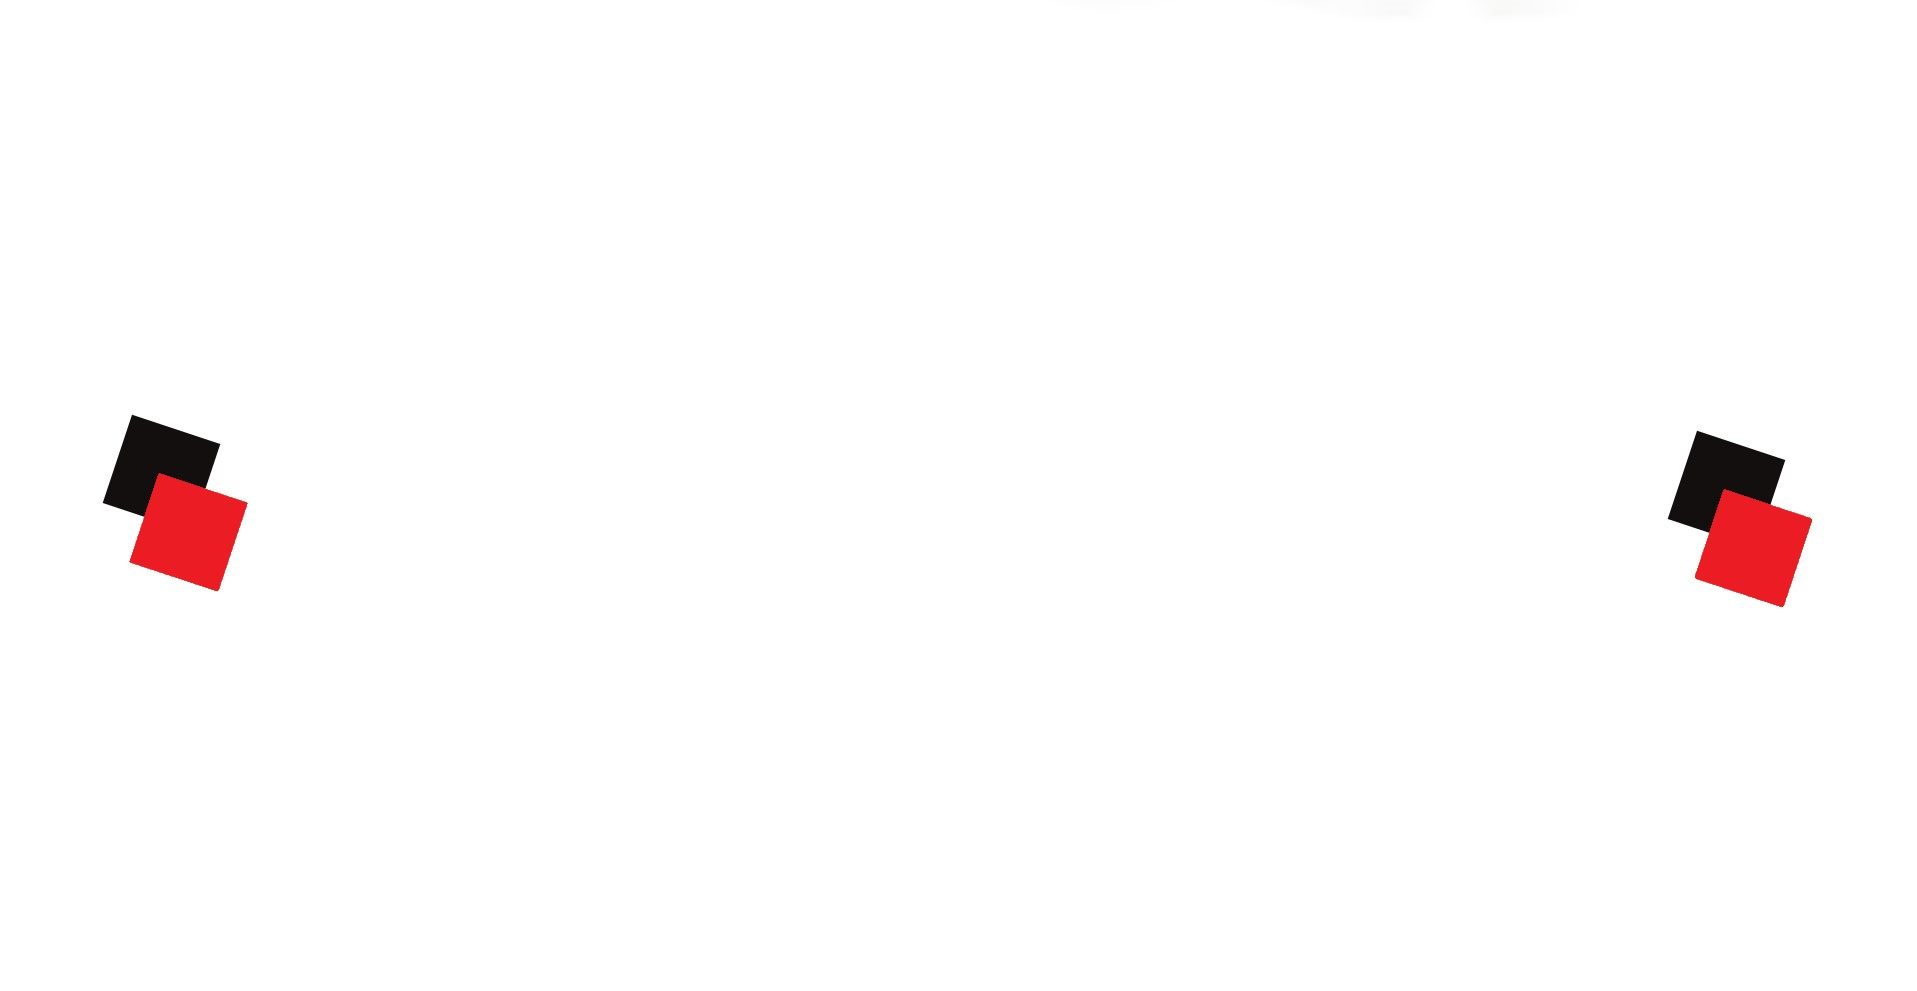
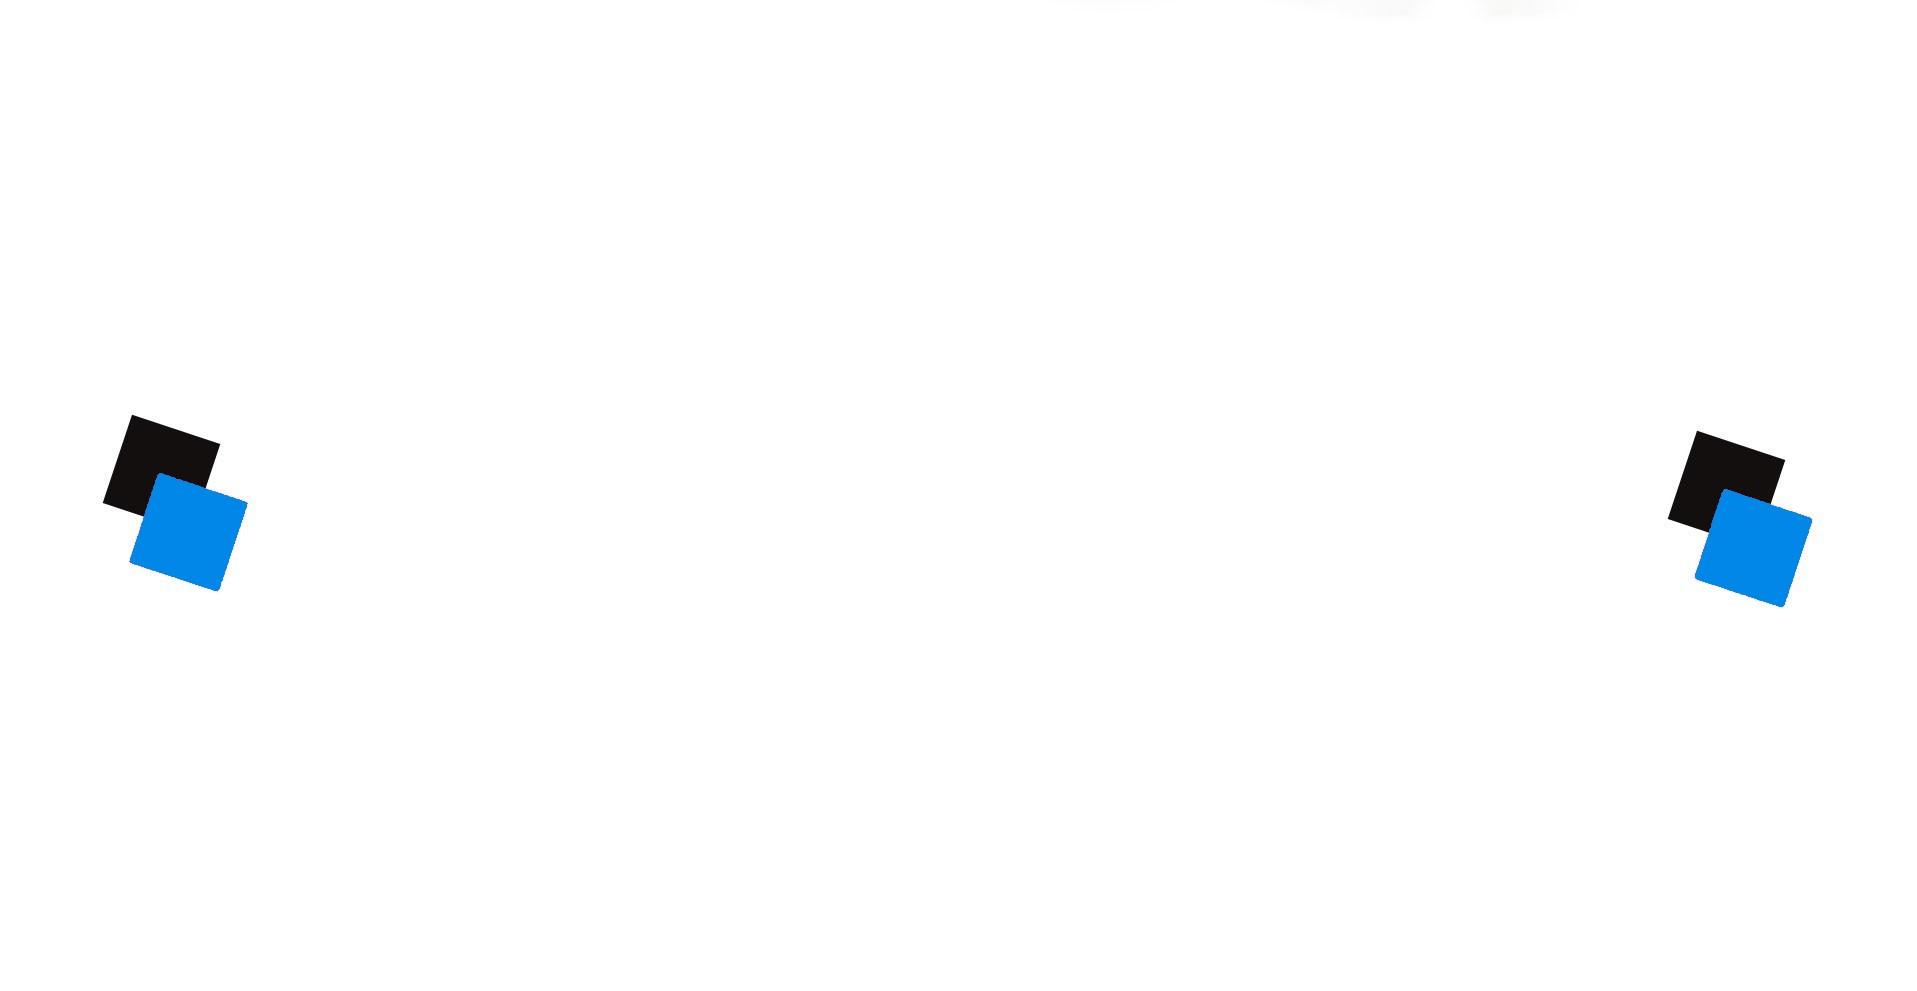
Latest Update

Changed region(s): [[0.8618, 0.4844, 0.9541, 0.6054], [0.0616, 0.4844, 0.1231, 0.6054]]

diff --git a/index.html b/index.html
@@ -45,7 +45,9 @@
                     <div class="col-xl-3 col-lg-3 col-md-3 col-sm-3 col logo_section">
                         <div class="full">
                             <div class="center-desk">
-                                <div class="logo"> <a href="index.html"><img src="images/Homestead%20logo.png" alt="#"></a> </div>
+                                <div class="logo">
+                                    <a href="index.html"><img src="images/logo.png" alt="#"></a>
+                                </div>
                             </div>
                         </div>
                     </div>
@@ -79,17 +81,17 @@
             </ol>
             <div class="carousel-inner">
                 <div class="carousel-item active">
-                    <img class="first-slide" src="images/maria.jpg" alt="First slide">
+                    <img class="first-slide" src="images/bg.jpeg" alt="First slide">
                     <div class="container">
                         <div class="carousel-caption relative">
-                            <h1>Hello, <br><strong class="cur" style="font-size: 40px;">You're welcome to the home of fine quality.</strong></h1>
+                            <h1 class="text-white">Hello, <br><strong class="cur" style="font-size: 40px;">You're welcome to the home of fine quality.</strong></h1>
                             <p>We offer you the very best Real Estate Services possible!</p>
                             <div class="button_section"> <a class="main_bt" href="#">Contact us</a></div>
                         </div>
                     </div>
                 </div>
                 <div class="carousel-item">
-                    <img class="second-slide" src="images/maria.jpg" alt="Second slide">
+                    <img class="second-slide" src="images/bg.jpeg" alt="Second slide">
                     <div class="container">
                         <div class="carousel-caption relative">
                             <span>We are uniquely committed and qualified to building high-quality housing within emerging communities</span>
@@ -122,8 +124,8 @@
             </div>
             <div class="row">
                 <div class="col-md-12">
-                    <div class="aboutimg">
-                        <figure><img src="images/about-new.jpg" alt="img" /></figure>
+                    <div class="aboutimg">                        
+                        <div style="width:100%;height:0px;position:relative;padding-bottom:56.250%;" class="justify-content-center"><iframe src="https://streamable.com/e/1hk734?autoplay=1&nocontrols=1" frameborder="0" width="100%" height="100%" allowfullscreen allow="autoplay" style="width:800px;height:600px;overflow:hidden;"></iframe></div>
                         <p>Full Service Real Estate Company specializing in various strategies from turnkey rentals to portfolio management to Redevelopment and Repositioning of Residential, Multifamily, and Commercial Real Estate.</p>
 
                         <!-- Button trigger modal -->
@@ -144,11 +146,11 @@
                                     <div class="modal-body">
                                         Homestead 1862, LLC was established with the purpose of generating, maintaining, and increasing the value and profitability of our residential investment properties. Our ability to offer complete involvement in all aspects of investment asset acquisition, ownership, management, operational and value analysis, and disposition enables us to maximize the value of our clients’ investments and aggressively generate the wealth amongst all of our business partners. This and our exclusive focus on quality of end product are what set us apart from other real estate firms who simply “fix and flip”.
 
-                                        <br><br>
+                                        <br>
+                                        <br>
                                         <strong>CONSTRUCTION MANAGEMENT</strong>
-                                        <br><br>
-
-                                        Homestead 1862, LLC has a background in construction management and is qualified to manage large repair, renovation and capital improvement projects. From small scale “curb appeal” projects to extensive renovations, our consultation ensures that all contractors deliver inspection-ready, high quality work within budget constraints.
+                                        <br>
+                                        <br> Homestead 1862, LLC has a background in construction management and is qualified to manage large repair, renovation and capital improvement projects. From small scale “curb appeal” projects to extensive renovations, our consultation ensures that all contractors deliver inspection-ready, high quality work within budget constraints.
                                     </div>
                                 </div>
                             </div>
@@ -178,14 +180,16 @@
                     <div class="row">
                         <div class="col-md-12 ">
                             <div class="tow-box ">
-                                <i><img src="images/5%20(1).png" alt="img" /></i>
-                                <p>A Plan for Success<br><span style="font-size: 15px;">Prospective homebuyers want a quality product. We have found that the best way to get that is with upfront research – of our competitors, target market and customer desire points. We implement our plans and stick to them to execute efficiently and effectively.</span> </p>
+                                <i><img src="images/tick.png" alt="img" /></i>
+                                <p>A Plan for Success
+                                    <br><span style="font-size: 15px;">Prospective homebuyers want a quality product. We have found that the best way to get that is with upfront research – of our competitors, target market and customer desire points. We implement our plans and stick to them to execute efficiently and effectively.</span> </p>
                             </div>
                         </div>
                         <div class="col-md-12">
                             <div class="tow-box mrgn-top">
                                 <i><img src="images/5%20(2).png" alt="img" /></i>
-                                <p>Experts Only <br> <span style="font-size: 15px;">Homestead 1862 is composed of specialists with corporate and agency experience that hail from various backgrounds. As such, Homestead 1862 will never assign second-tier support staff and/or subcontractors to any project.</span> </p>
+                                <p>Experts Only
+                                    <br> <span style="font-size: 15px;">Homestead 1862 is composed of specialists with corporate and agency experience that hail from various backgrounds. As such, Homestead 1862 will never assign second-tier support staff and/or subcontractors to any project.</span> </p>
                             </div>
                         </div>
                     </div>
@@ -195,13 +199,15 @@
                         <div class="col-md-12 pnd-top">
                             <div class="tow-box ">
                                 <i><img src="images/5%20(3).png" alt="img" /></i>
-                                <p>Creativity <br> <span style="font-size: 15px;">We bring our diverse background of sales, advertising, design, branding, public relations, research and strategic planning to work for our company. Not only will our clients make great returns – they will enjoy being a part of our family.</span> </p>
+                                <p>Creativity
+                                    <br> <span style="font-size: 15px;">We bring our diverse background of sales, advertising, design, branding, public relations, research and strategic planning to work for our company. Not only will our clients make great returns – they will enjoy being a part of our family.</span> </p>
                             </div>
                         </div>
                         <div class="col-md-12">
                             <div class="tow-box mrgn-top">
-                                <i><img src="images/5%20(4).png" alt="img" /></i>
-                                <p>Attention to Details <br> <span style="font-size: 15px;">It’s our attention to the small stuff, scheduling of timelines and keen project management that makes us stand out from the rest. We are creative, while keeping a close eye on the calendar and our budget. </span>
+                                <i><img src="images/details.png" alt="img" /></i>
+                                <p>Attention to Details
+                                    <br> <span style="font-size: 15px;">It’s our attention to the small stuff, scheduling of timelines and keen project management that makes us stand out from the rest. We are creative, while keeping a close eye on the calendar and our budget. </span>
                                 </p>
                             </div>
                         </div>
@@ -218,7 +224,7 @@
             <div class="get row">
                 <div class="col-md-4">
                     <div class=" d-flex justify-content-center">
-                        <img class="img-fluid rounded-circle" src="images/IMG_5403.jpg" alt="">
+                        <img class="img-fluid rounded-circle" src="images/founder.jpeg" alt="">
                     </div>
                     <h3 class="text-white text-center">Gregory M. Smith</h3>
                     <h4 class="text-center text-white"><i>Founder & President</i></h4>
@@ -234,7 +240,7 @@
 
                 <div class="col-md-4">
                     <div class=" d-flex justify-content-center">
-                        <img class="img-fluid rounded-circle" src="images/IMG_5403.jpg" alt="">
+                        <img class="img-fluid rounded-circle" src="images/CDO.jfif" alt="">
                     </div>
                     <h3 class="text-white text-center">Kelly J. Davis</h3>
                     <h4 class="text-center text-white"><i>Chief Design Officer</i></h4>
@@ -263,9 +269,9 @@
     </div>
 
     <!-- footer -->
-    <footer>
-        <div class="footer">
-            <div class="container">
+    <footer class="">
+        <div class="footer pb-5">
+            <div class="container-fluid px-5">
                 <div class="row">
                     <div class="col-xl-12 col-lg-12 col-md-12 col-sm-12">
                         <div class="JJcoach">
@@ -279,35 +285,39 @@
                 <div class="row pdn-top-30">
                     <div class="col-xl-3 col-lg-3 col-md-3 col-sm-12">
                         <ul class="location_icon">
-                            <li> <img src="icon/location.png"> <span>London 145<br>United Kingdom</span></li>
+                            <li> <img src="icon/location.png"> <span>3379 Peachtree Road NE Suite 555 <br>Atlanta, GA 30326</span></li>
 
 
                         </ul>
                     </div>
                     <div class="col-xl-3 col-lg-3 col-md-3 col-sm-12">
                         <ul class="location_icon">
-                            <li> <img src="icon/tellephone.png"><span>+9187654320<br>+9187654320</span></li>
+                            <li> <img src="icon/tellephone.png"><span>(678) 941-5020<br>Fax: (678) 941-5019</span></li>
                         </ul>
                     </div>
                     <div class="col-xl-3 col-lg-3 col-md-3 col-sm-12">
                         <ul class="location_icon">
-                            <li> <img src="icon/email.png"><span>Building@Homestead1862.com<br>Demo@gmail.com</span></li>
+                            <li> <img src="icon/email.png"><span>Building@Homestead1862.com<br></span></li>
                         </ul>
                     </div>
                     <div class="col-xl-3 col-lg-3 col-md-3 col-sm-12">
                         <ul class="location_icon">
-                            <li> <a href="https://www.instagram.com/homestead1862/"><img src="icon/facebook.png"></a></li>
-                            <li> <a href="#"><img src="icon/red-twitter.png"></a></li>
-                            <li> <a href="#"><img src="icon/red-linkedin.png"></a></li>
+                            <li>
+                                <a href="https://www.instagram.com/homestead1862/"><img src="icon/ig.png"></a>
+                            </li>
+                            <li>
+                                <a href="#"><img src="icon/twitter.png"></a>
+                            </li>
+                            <li>
+                                <a href="#"><img src="icon/linkedin.png"></a>
+                            </li>
                         </ul>
                     </div>
                 </div>
             </div>
         </div>
         <div class="copyright">
-            <div class="container">
-                <p>Copyright 2019 All Right Reserved By <a href="https://html.design/">Free html Templates</a></p>
-            </div>
+            <p class="text-muted m-0 p-0">Copyright 2019 All Right Reserved By <a class="text-muted" href="https://html.design/">Free html Templates</a></p>
         </div>
     </footer>
     <!-- end footer -->
@@ -321,4 +331,6 @@
     <!-- sidebar -->
     <script src="js/jquery.mCustomScrollbar.concat.min.js"></script>
     <script src="js/custom.js"></script>
-</body></html>
+</body>
+
+</html>

diff --git a/css/style.css b/css/style.css
@@ -22,7 +22,7 @@
 }
 
 body {
-    color: #666666;
+    color: #00243e;
     font-size: 14px;
     font-family: 'poppins', sans-serif;
     line-height: 1.80857;
@@ -297,7 +297,7 @@ a.readmore_bt {
 
 .main_bt:hover,
 .main_bt:focus {
-    background: #ff1616;
+    background: #0087e8;
     border: solid black 5px;
     color: #fff;
 }
@@ -419,8 +419,9 @@ a.readmore_bt {
 
 /*--------------------------------------------------------------------- header area ---------------------------------------------------------------------*/
 .header {
-    background: #181918;
+    background: #00243e;
     padding: 10px 0px;
+    border-bottom: 2px solid white;
 }
 
 .logo {
@@ -434,11 +435,11 @@ nav.main-menu {
 
 .menu-area-main li:hover a,
 .menu-area-main li:focus a {
-    color: #ff1616;
+    color: #0087e8;
 }
 
 .menu-area-main li.active a {
-    color: #ff1616;
+    color: #0087e8;
 }
 
 .right_cart_section {
@@ -1619,7 +1620,7 @@ input[type="radio"] .styled:checked + label::after {
 .banner-main .carousel-caption h1 {
     font-size: 76px;
     line-height: 80px;
-    color: #ff1616;
+    color: #00243e;
     font-weight: bold;
 }
 
@@ -1642,7 +1643,7 @@ input[type="radio"] .styled:checked + label::after {
 }
 
 .carousel-indicators .active {
-    background-color: #ff1616;
+    background-color: #0087e8;
 }
 
 .carousel-indicators li {
@@ -1674,7 +1675,7 @@ input[type="radio"] .styled:checked + label::after {
 
 .aboutheading {
     text-align: center;
-    border: #ff1616 solid 1px;
+    border: #0087e8 solid 1px;
 }
 
 .aboutheading h2 {
@@ -1713,7 +1714,7 @@ input[type="radio"] .styled:checked + label::after {
 
 .about .aboutimg a:hover {
     color: #fff;
-    background-color: #ff1616;
+    background-color: #0087e8;
 }
 
 .Coach {
@@ -1729,7 +1730,7 @@ input[type="radio"] .styled:checked + label::after {
 .Coach .titlepage h2 {
     line-height: 72px;
     font-size: 40px;
-    color: #ff1616;
+    color: #0087e8;
 }
 
 .need {
@@ -1791,7 +1792,7 @@ input[type="radio"] .styled:checked + label::after {
 }
 
 .red_bg {
-    background-color: #4a0808;
+    background-color: #00243e;
 }
 
 .guaranteed figure {
@@ -1948,13 +1949,13 @@ input[type="radio"] .styled:checked + label::after {
 }
 
 .send-btn:hover {
-    background-color: darkred;
+    background-color: #0087e8;
     border: black solid 2px;
     color: #fff;
 }
 
 .footer {
-    background-color: #470a0a;
+    background-color: #00243e;
     padding-bottom: 36px;
 }
 
